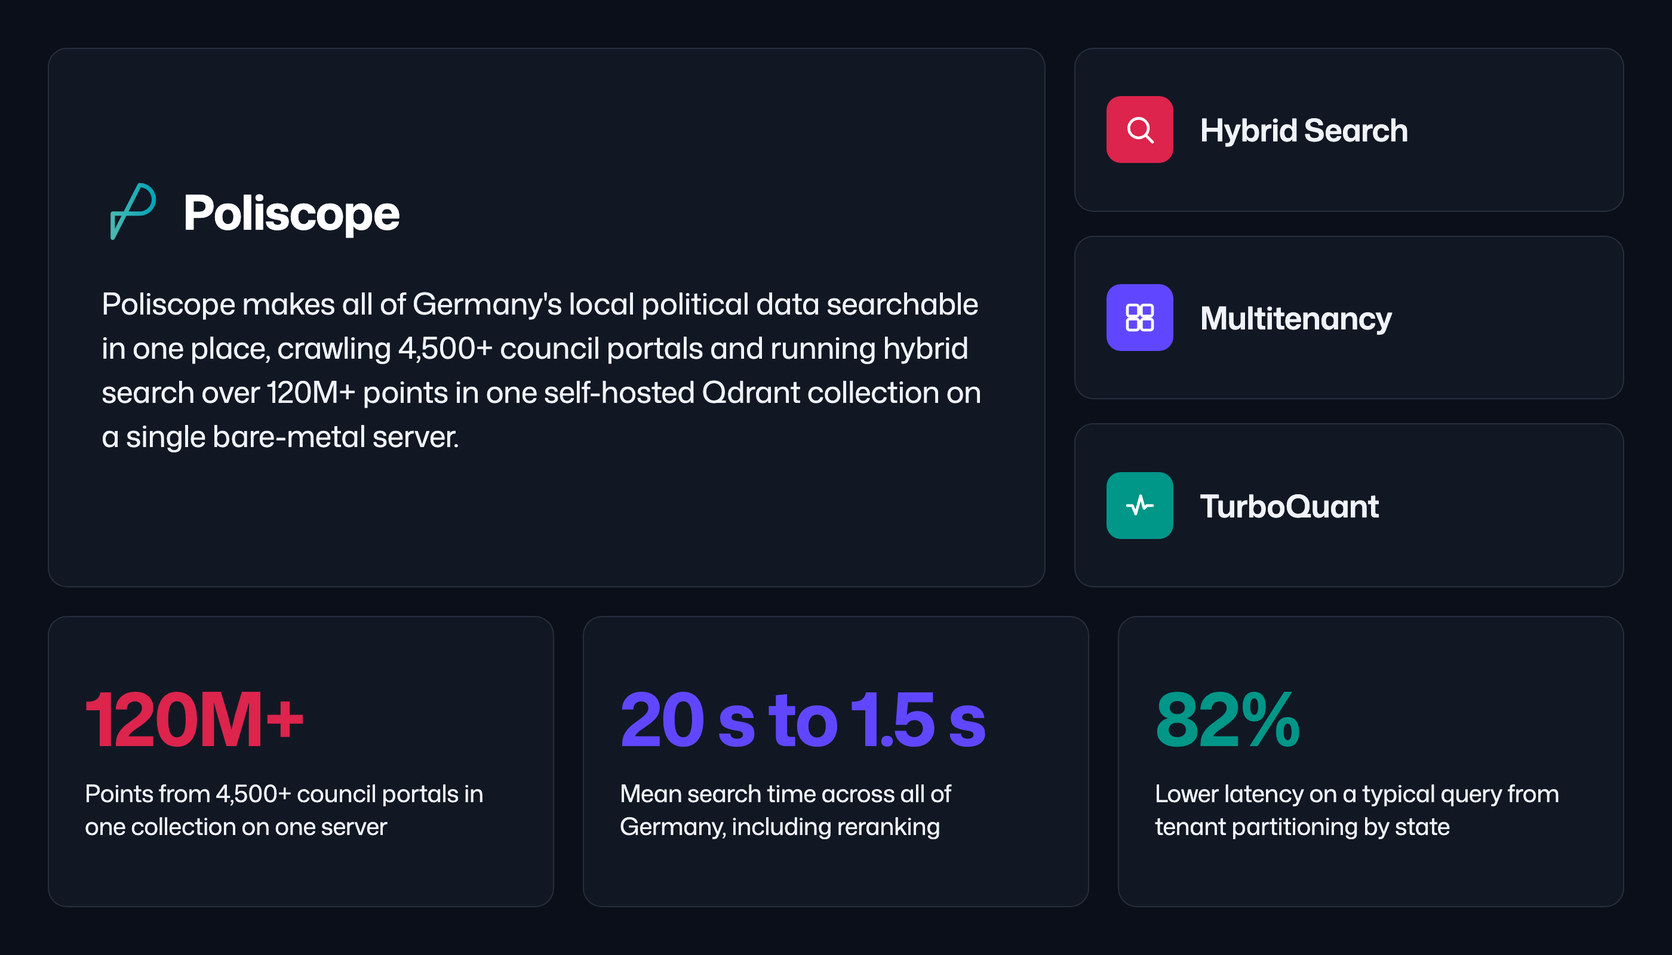
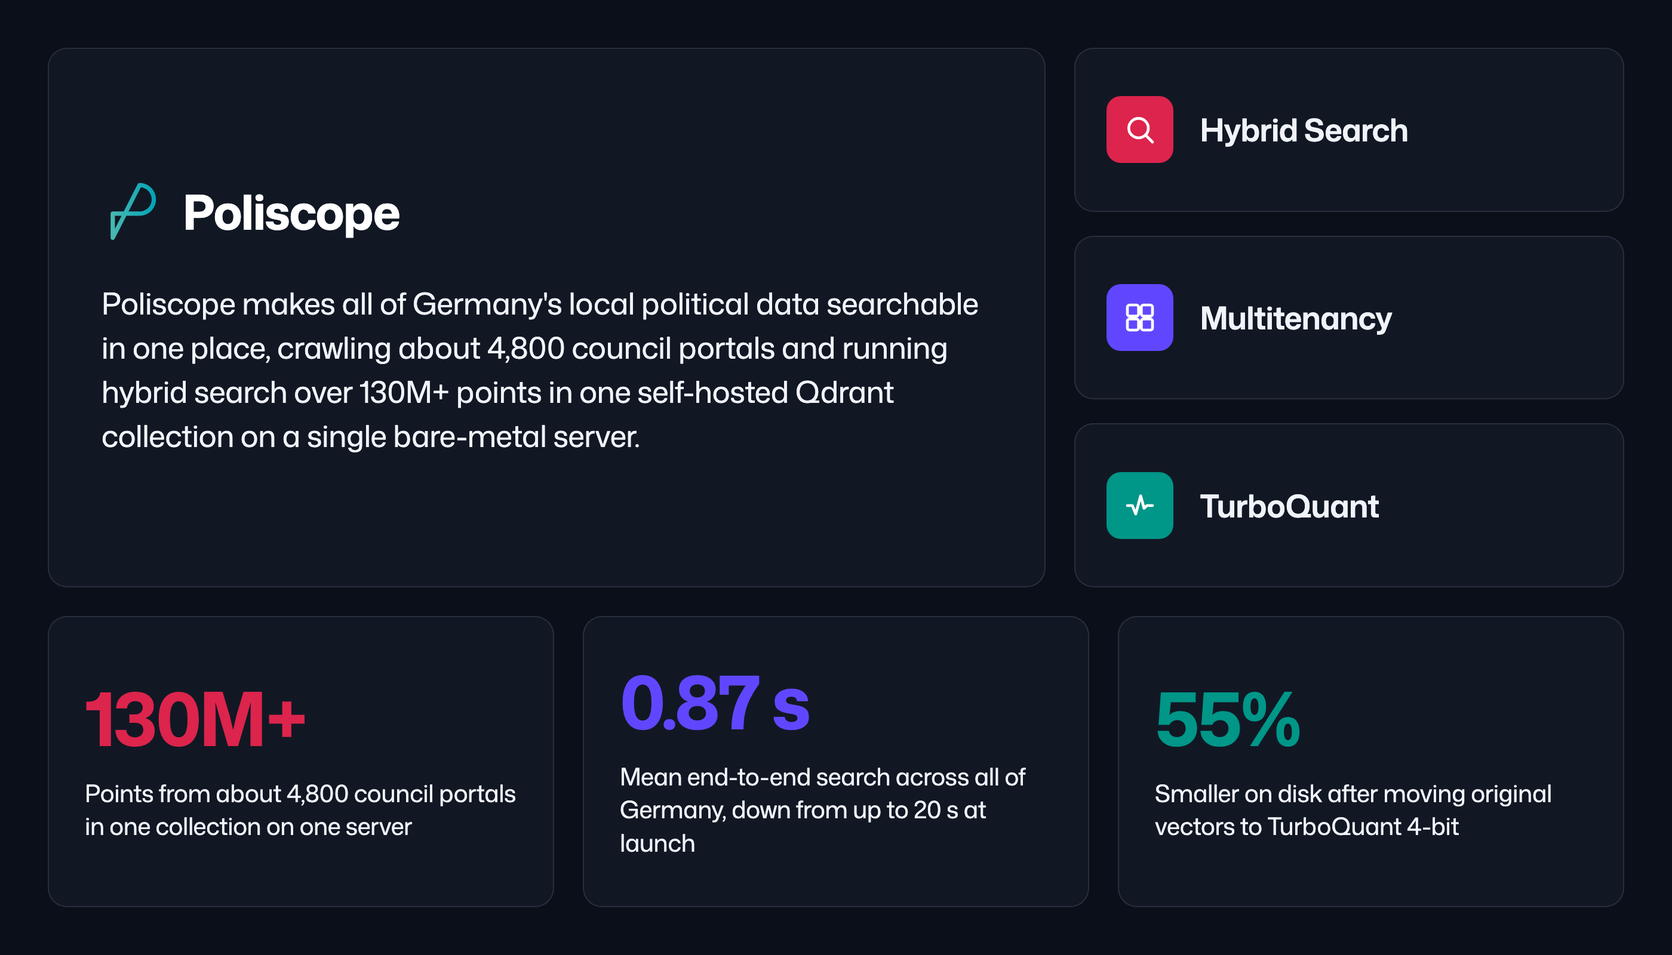
Revise Poliscope case study per Kolja Martens's review
Apply the customer's answers, suggestions, and comments from the review doc
and his October 13 email: current production figures, corrected TurboQuant
history with measured before and after results, end-to-end search latency,
removal of the group_by workaround and OCR model details, and a less
lean-team framing. Rebuild the bento box and architecture diagram.

diff --git a/qdrant-landing/content/blog/case-study-poliscope.md b/qdrant-landing/content/blog/case-study-poliscope.md
@@ -1,11 +1,11 @@
 ---
 draft: false
 title: "How Poliscope Made All of Germany's Local Politics Searchable on One Server with Qdrant"
-short_description: "Poliscope runs hybrid search over 120M points of German municipal records on a single self-hosted Qdrant node."
-description: "How Poliscope indexed 4,500+ German council portals into one self-hosted Qdrant collection of 120M points: hybrid search, tenant and prefix filtering, and 2-bit TurboQuant on one bare-metal server, taking searches from 20 seconds to 1.5."
+short_description: "Poliscope runs hybrid search over 130M points of German municipal records on a single self-hosted Qdrant node."
+description: "How Poliscope indexed about 4,800 German council portals into one self-hosted Qdrant collection of 130M points: hybrid search, tenant and prefix filtering, and TurboQuant on one bare-metal server, taking mean search time from 20 seconds to 0.87 seconds."
 preview_image: /blog/case-study-poliscope/social_preview.png
 social_preview_image: /blog/case-study-poliscope/social_preview.png
-date: 2026-09-25T00:00:00.000Z
+date: 2026-10-13T00:00:00.000Z
 author: Daniel Azoulai
 featured: false
 tags:
@@ -16,32 +16,33 @@ tags:
   - multitenancy
   - payload filtering
   - quantization
+  - TurboQuant
   - GovTech
   - open source
 partition: case-studies
 ---
 
-![Poliscope makes all of Germany's local political data searchable in one place, crawling 4,500+ council portals and indexing 120M+ points in a single self-hosted Qdrant collection. Hybrid search, multitenancy, and 2-bit TurboQuant on one bare-metal server took mean search time from 20 seconds to 1.5 seconds, and tenant partitioning alone cut a typical query by 82%](/blog/case-study-poliscope/bento_box.png)
+![Poliscope makes all of Germany's local political data searchable in one place, crawling about 4,800 council portals into a single self-hosted Qdrant collection of 130M+ points. Mean end-to-end search time fell from up to 20 seconds at launch to 0.87 seconds, and moving the original vectors to TurboQuant 4-bit cut the collection's disk footprint by 55%](/blog/case-study-poliscope/bento_box.png)
 
-<a href="https://poliscope.de/" target="_blank">Poliscope</a> makes Germany's local political data searchable in one place. Germany has about 11,000 municipalities, and almost every one of them runs its own council information system (in German, a Ratsinformationssystem). That is where agendas, minutes, proposals, and planning documents get published. More than 4,500 of these portals exist, built on roughly a dozen software products, each with its own quirks, and none of them talk to each other.
+<a href="https://poliscope.de/" target="_blank">Poliscope</a> makes Germany's local political data searchable in one place. Germany has about 11,000 municipalities, and almost every one of them publishes through a council information system (in German, a Ratsinformationssystem). That is where agendas, minutes, proposals, and planning documents get published. Poliscope tracks about 4,800 active portals, built on roughly a dozen software products, each with its own quirks, and none of them talk to each other.
 
 This is the layer of politics that people feel most directly: a zoning decision for a wind farm, a new school building, whether the bus keeps running. It is also the layer nobody could search. To find out which councils in Germany were discussing wind energy, you opened the portals one at a time.
 
-Poliscope crawls all of them, runs optical character recognition (OCR) over every PDF, and puts the result behind one search box. Its first customers were renewable energy project developers, who need to know the moment a council starts zoning a new area for wind or solar so they can reach landowners first. Journalists, city planners, and companies that sell to municipalities followed. Today the corpus covers roughly 500,000 meetings, 5.2 million agenda items, and 5.2 million documents, with about 20,000 new meetings arriving every month. In Qdrant that is 120 million points, 110 million of them document chunks. The company has four people, and one engineer maintains search.
+Poliscope crawls all of them, runs optical character recognition (OCR) over every PDF, and puts the result behind one search box. Its first customers were renewable energy project developers, who need to know the moment a council starts zoning a new area for wind or solar so they can reach landowners first. Journalists, city planners, and companies that sell to municipalities followed. Today the corpus covers about 532,000 meetings, 5.5 million agenda items, and 5.6 million documents, with about 20,000 new meetings arriving every month. In Qdrant that is 130 million points, 117 million of them document chunks.
 
 ## Before Qdrant, There Was No Search
 
 Poliscope's first version did not search anything. Each meeting got a language-model relevance score for a handful of fixed topics, wind and solar among them, based only on agenda item titles. Nobody looked inside the PDFs. That was enough for the first customers, because those were the only topics they cared about, but it could not stretch to "search for anything."
 
-The documents are where the real answers live: what was said, what was decided, how the vote went. Getting to them meant OCR over 4.3 TB of PDFs, ranging from one-page notices to 700-page planning files with embedded maps, and then a retrieval layer that could hold 100 million chunks and still answer in the time a person is willing to wait.
+The documents are where the real answers live: what was said, what was decided, how the vote went. Getting to them meant OCR over 4.3 TB of PDFs, ranging from one-page notices to 700-page planning files with embedded maps, and then a retrieval layer that could hold more than 100 million chunks and still answer in the time a person is willing to wait.
 
 ## Why Poliscope Chose Qdrant: Hybrid Search, Hierarchical Filters, and a Server It Could Own
 
-Kolja Martens, Poliscope's co-founder and CTO, wrote down what the search engine had to do before he chose one. German keyword matching was non-negotiable: compound nouns make pure semantic search miss exact terms, so the engine needed dense and sparse retrieval in one query. Results had to be filterable by a hierarchical region code, because most users search one state, one district, or one town. Results had to be grouped by meeting. And the whole stack had to run on one large machine that Poliscope operated itself.
+Kolja Martens, Poliscope's co-founder and CTO, wrote down what the search engine had to do before he chose one. German keyword matching was non-negotiable: compound nouns make pure semantic search miss exact terms, so the engine needed dense and sparse retrieval in one query. Results had to be filterable by a hierarchical region code, because most users search one state, one district, or one town. Results had to be grouped by meeting or by proposal. And the search stack had to run on one large machine that Poliscope operated itself.
 
 That last requirement was about jurisdiction as much as cost. Poliscope wanted an EU-only stack for the data, self-hosted, with no US vendor holding the index and no exposure to the US CLOUD Act. Data sovereignty comes up in Poliscope's own sales conversations, and a managed service in a US hyperscaler's region did not answer it.
 
-In late 2025, Kolja evaluated Typesense and the usual managed vector offerings. Typesense turned out to be built for typo-tolerant product catalogs, with vector search as a secondary feature. Among the managed options, grouping search results was either missing or a workaround. He tried Qdrant on the free cloud tier before committing to a server, and in February 2026, Poliscope went to production on Qdrant open source.
+In late 2025, Kolja evaluated Typesense and the usual managed vector offerings. He found Typesense geared toward typo-tolerant product catalogs, with vector search as a secondary feature. Among the managed options, grouping search results was either missing or a workaround. He tried Qdrant on the free cloud tier before committing to a server, and in February 2026, Poliscope went to production on Qdrant open source.
 
 {{< quote
   text="What tipped it for Qdrant: it is a pro tool. Everything is tunable, which means you can either shoot yourself in the foot or build something seriously fast, and we did both. At the same time it stays easy to use, the docs are good, and coding agents find their way around it without hand-holding."
@@ -50,38 +51,40 @@ In late 2025, Kolja evaluated Typesense and the usual managed vector offerings. 
   company="Poliscope"
   featured="true" >}}
 
-Cost predictability sealed the choice of one bare-metal server over a managed cluster. Kolja knows what the machine costs each month and which cores are doing optimization versus search.
+## From 20-Second Searches to Under a Second Over 130 Million Points
 
-{{< quote
-  text="When I have nightmares, I have nightmares about an unhinged bill from my cloud provider."
-  name="Kolja Martens"
-  role="Co-Founder and CTO"
-  company="Poliscope" >}}
+Poliscope got a first version of search to customers early, with about 70 million points already indexed and little tuning. Single searches took up to 20 seconds. Waiting through one on a sales call was, in Kolja's words, an uncomfortable silence.
 
-## From 20-Second Searches to 1.5 Seconds Over 120 Million Points
-
-Poliscope launched search in a hurry, with about 70 million points already indexed and little tuning. Single searches took up to 20 seconds. Waiting through one on a sales call was, in Kolja's words, an uncomfortable silence.
-
-The fixes came from Qdrant's own knobs, each measured in production. Together they brought mean search time to 1.5 seconds, including cross-encoder reranking, which is now the most expensive step in the query.
+The fixes came from Qdrant's own settings, each measured in production.
 
 **Tenant partitioning by state.** Most people search within one region. Germany has 16 states, which Poliscope grouped into 12 tenants using Qdrant's [multitenancy](https://qdrant.tech/documentation/manage-data/multitenancy/) support, with the same 12 groups as the collection's shards. Because a query almost always carries a region, it can discard up to 80% of the corpus before the vector search starts.
 
-**A prefix index on the region hierarchy.** German administrative IDs are strictly hierarchical: every sub-entity's ID starts with its parent's ID. A single [prefix match](https://qdrant.tech/documentation/search/filtering/#prefix-match) on that field, backed by a keyword index with the prefix option, covers "everything inside this district" in one condition. Adding the level for exact matches, instead of a `match.any` over a list of IDs, replaced the slowest filter in the system.
+**A prefix index on the region hierarchy.** German administrative IDs are strictly hierarchical: every sub-entity's ID starts with its parent's ID. A single [prefix match](https://qdrant.tech/documentation/search/filtering/#prefix-match) on that field, backed by a keyword index with the prefix option, covers "everything inside this district" in one condition. This replaced the slowest filter in the system.
 
-**Flat query plus application-side grouping.** Poliscope groups hits into meetings so a result is a meeting, not a chunk. For its production query shape, the combination of hybrid search and server-side `group_by` was about 60x slower than a flat query, so the grouping moved into the application. Kolja plans to file a reproducible issue with the Qdrant team.
-
-**2-bit TurboQuant.** Poliscope ran binary quantization first, then re-ingested with 2-bit [TurboQuant](https://qdrant.tech/documentation/manage-data/quantization/#turboquant-quantization) when Qdrant 1.18 shipped it. Dense vectors live on disk and the quantized index in RAM, with 3x oversampling and rescoring against the originals.
-
-The table summarizes the production measurements Poliscope shared for each change.
+The table shows the production measurements Poliscope shared for both changes.
 
 | Change | Query type | Before | After |
 |---|---|:---:|:---:|
 | Tenant partitioning | Typical term | 1,315 ms | 235 ms |
 | Tenant partitioning | Broad bounding-box query | 3.2 s | 1.7 s |
 | Prefix index on region ID | Single-town search | 6 to 10 s | 0.3 to 0.8 s |
-| Flat query, app-side grouping | Production query shape, server-side | 2.6 s | 45 ms |
 
-Precision and recall are harder to give against a baseline, because the baseline was "not searchable." Poliscope handles quality by retrieving a broad pool from Qdrant and letting a reranker order it, then checking reference searches by hand. The team wants a systematic evaluation set and plans to build one.
+**TurboQuant for the index and for the originals.** Poliscope started with Qdrant's 2-bit [binary quantization](https://qdrant.tech/documentation/manage-data/quantization/#15-bit-and-2-bit-quantization). On September 26, 2026, it switched the in-RAM index to 1.5-bit [TurboQuant](https://qdrant.tech/documentation/manage-data/quantization/#turboquant-quantization), a configuration change that needed no re-ingest. Two days later, on Qdrant 1.19, it moved the original vectors on disk from float32 to the [`turbo4` datatype](https://qdrant.tech/documentation/manage-data/vectors/#turbo4), copying the data into a new collection to do it. Storage on the server was starting to run low, and the move freed it while improving recall.
+
+The table shows Poliscope's before and after measurements for each step, with latency measured on the Qdrant query alone.
+
+| Step | Metric | Before | After |
+|---|---|:---:|:---:|
+| Binary 2-bit to TurboQuant 1.5-bit (in-RAM index) | Quantized index size | 45.9 GiB | 35.1 GiB |
+| Binary 2-bit to TurboQuant 1.5-bit (in-RAM index) | P50 latency | 16.8 ms | 11.7 ms |
+| Binary 2-bit to TurboQuant 1.5-bit (in-RAM index) | Recall@10 without rescoring | 0.695 | 0.751 |
+| float32 to `turbo4` (originals on disk) | Disk footprint | 1,174 GiB | 531 GiB |
+| float32 to `turbo4` (originals on disk) | P50 latency | 12.6 ms | 8.5 ms |
+| float32 to `turbo4` (originals on disk) | P95 latency | 23.9 ms | 12.5 ms |
+
+Recall after the `turbo4` step was practically unchanged.
+
+Today the Qdrant query takes 8.5 ms at P50 and 12.5 ms at P95 in Poliscope's benchmark. Measured end to end since September 29, 2026, including embedding the query, the Qdrant search, and reranking, a search takes 0.87 seconds on average, 0.59 seconds at the median, and 2.1 seconds at P95.
 
 {{< quote
   text="That still gives me a bit of a kick: one search box, and you see every council in the country that touched your topic last week. Monitoring at the municipal level went from practically impossible to something as easy as a Google search."
@@ -91,19 +94,19 @@ Precision and recall are harder to give against a baseline, because the baseline
 
 ## How a Query Moves Through Poliscope
 
-![Poliscope's pipeline: crawlers pull meetings and PDFs from 4,500+ council portals, an OCR queue on a GPU machine turns pages into Markdown, a BullMQ worker chunks and embeds them into one Qdrant collection with dense and BM25 sparse vectors. At query time, a tenant filter and region prefix filter narrow the corpus, a hybrid prefetch fuses BM25 and 2-bit quantized dense results with DBSF, the pool is grouped into meetings, and a Jina cross-encoder reranks them before results deep-link to the PDF page](/blog/case-study-poliscope/poliscope-search-architecture.png)
+![Poliscope's pipeline: crawlers on their own machine pull meetings and PDFs from about 4,800 council portals, and a separate GPU machine runs OCR to turn pages into Markdown. On the main server, which holds the database, API, and Qdrant, workers chunk and embed the text into one Qdrant collection with dense and BM25 sparse vectors. At query time, a tenant filter and region prefix filter narrow the corpus, a hybrid prefetch fuses BM25 and TurboQuant dense results with DBSF, results are grouped by meeting or proposal, and a Jina cross-encoder reranks them before they deep-link to the PDF page](/blog/case-study-poliscope/poliscope-search-architecture.png)
 
-**Ingest.** Crawlers pull meetings, agenda items, proposals, and PDFs from the 4,500+ portals into Poliscope's database. PDFs go through an OCR queue on Poliscope's own GPU machine, where a vision model (LightOnOCR-2-1B) turns every page into Markdown. A database hook enqueues BullMQ jobs. A worker chunks the Markdown with a heading-aware chunker, so every chunk carries its heading breadcrumb, at about 1,200 characters with 150 characters of overlap. It embeds each chunk with OpenAI `text-embedding-3-small` (1,536 dimensions) and upserts it into Qdrant with Qdrant's built-in BM25 as the sparse vector, using the IDF modifier. Most changes reach Qdrant right after they land in the database. A weekly reconcile job cleans up the rest.
+**Ingest.** Crawlers on a dedicated machine pull meetings, agenda items, proposals, and PDFs from the portals into Poliscope's database. PDFs go through an OCR queue on a separate GPU machine, where a vision model turns every page into Markdown. A database hook enqueues BullMQ jobs. A worker chunks the Markdown, embeds each chunk with OpenAI `text-embedding-3-small` (1,536 dimensions), and upserts it into Qdrant with Qdrant's built-in BM25 as the sparse vector, using the IDF modifier. Most changes reach Qdrant right after they land in the database. A weekly reconcile job cleans up the rest.
 
-**Query.** Search serves Poliscope's on-platform search, its Model Context Protocol (MCP) server, agents, and monitoring services. The query parser supports OR sub-queries in hybrid mode, plus AND, NOT, and exact phrases in keyword mode. A [hybrid](https://qdrant.tech/documentation/search/hybrid-queries/) prefetch runs BM25 and dense search in one request, with the dense side served from the 2-bit quantized index and rescored at 3x oversampling, and fuses the two with distribution-based score fusion (DBSF). The result pool is grouped into meetings, then a Jina cross-encoder reranks the grouped pool. Every hit carries its PDF page range, so results deep-link to the right page of the source document.
+**Query.** Search serves Poliscope's on-platform search, its Model Context Protocol (MCP) server, agents, and monitoring services. The query parser supports OR sub-queries in hybrid mode, plus AND, NOT, and exact phrases in keyword mode. A [hybrid](https://qdrant.tech/documentation/search/hybrid-queries/) prefetch runs BM25 and dense search in one request, with the dense side served from the 1.5-bit TurboQuant index and rescored against the `turbo4` originals, and fuses the two with distribution-based score fusion (DBSF). Results are grouped by meeting or by proposal, then a Jina cross-encoder (`jina-reranker-v2-base-multilingual`) reranks them. Every hit carries its PDF page range, so results deep-link to the right page of the source document.
 
-**Setup.** Qdrant 1.18, a single node with 12 shards and one collection of 120 million points, on a Hetzner bare-metal server in Germany: an AMD EPYC 9454, 256 GB of RAM, and two 1.9 TB NVMe drives. Dense vectors sit on disk and the TurboQuant index in RAM. The collection takes 1.3 TB on disk and about 180 GB resident.
+**Setup.** Qdrant 1.19, a single node with 12 shards and one collection of 130 million points, on a Hetzner bare-metal server in Germany: an AMD EPYC 9454, 256 GB of RAM, and two 1.9 TB NVMe drives. The database, the API, and Qdrant share this server. The collection takes about 550 GiB on disk. Of about 200 GB of RAM in use, 83 GB is Qdrant's own memory: 38 GB of quantized vectors, about 37 GB of payload indexes, and 5 GB for the ID tracker. Another 114 GB sits in the page cache, including the full 44 GB HNSW graph.
 
-## One Engineer, One Server
+## Small Team, One Server
 
-There is no search team at Poliscope. One engineer maintains search alongside everything else, and one bare-metal server runs the whole platform.
+There is no dedicated search team at Poliscope. One engineer maintains search day-to-day, and one bare-metal server runs the database, the API, and Qdrant.
 
-Self-hosting has costs that a managed service would have absorbed. Kolja learned about sharding after the first ingest and had to re-ingest the collection to reshard it, which he did by standing up a second collection and switching over. Backups are on his list. He weighed those against the control he gets in return: knowing which cores serve queries and which run the optimizer, and being able to plan a backfill run around production.
+Self-hosting has costs that a managed service would have absorbed. Kolja learned about sharding after the first ingest and had to re-ingest the collection to reshard it, which he did by standing up a second collection and switching over. He weighed those against the control he gets in return: knowing which cores serve queries and which run the optimizer, and being able to plan a backfill run around production.
 
 Documentation carried a lot of that weight. Kolja develops with coding agents and a documentation MCP server, and Qdrant's docs and source were enough for the agents to find the right setting without hand-holding.
 
@@ -115,10 +118,10 @@ Documentation carried a lot of that weight. Kolja develops with coding agents an
 
 ## What's Next: Ten More Years of Data and a Second Node
 
-Poliscope's data starts in January 2024, the year the company started. A project with a research university will extend coverage back to 2016, which multiplies the corpus several times over. That growth will push the collection past one machine, so Kolja is planning a second node and [sharding](https://qdrant.tech/documentation/scaling/distributed_deployment/) across the two, and will revisit the self-hosted versus managed question when the dataset is larger.
+Poliscope's data starts in January 2024, the year the company started. Collaborations with research centers will extend coverage back to 2016, which multiplies the corpus several times over. The TurboQuant migration bought headroom on the current server, and when growth does push the collection past one machine, Kolja plans a second node and [sharding](https://qdrant.tech/documentation/scaling/distributed_deployment/) across the two, and will revisit the self-hosted versus managed question then.
 
-On the retrieval side, the team is considering shorter dense vectors, since hybrid retrieval with BM25 has not produced misses they know of at 1,536 dimensions, and wants to replace gut feel with a measured recall and precision baseline before the next round of configuration changes.
+On the retrieval side, the team has started measuring recall for each configuration change, beginning with the quantization migration, and is considering shorter dense vectors, since hybrid retrieval with BM25 has not produced misses they know of at 1,536 dimensions.
 
 ## From Practically Impossible to a Search Box
 
-Poliscope started with a monitoring problem that companies used to solve by handing interns a list of portals. It now runs hybrid search over 120 million points of German municipal records, filtered by tenant and region prefix, quantized to 2 bits, on one server that a four-person company owns outright. A search across every council in Germany returns in 1.5 seconds with reranking, and every result links back to the page it came from.
+Poliscope started with a monitoring problem that companies used to solve by handing interns a list of portals. It now runs hybrid search over 130 million points of German municipal records, filtered by tenant and region prefix and compressed with TurboQuant, on one server that a small team owns and operates. A search across every council in Germany takes 0.87 seconds on average, and every result links back to the page it came from.
